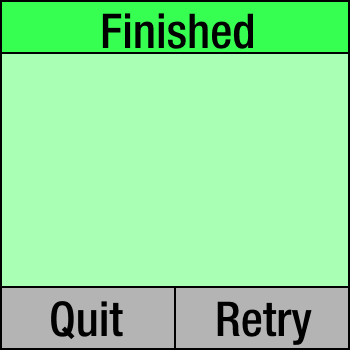
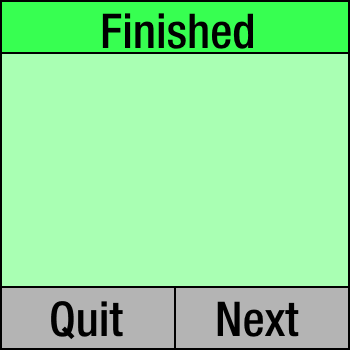
Fixed bugs in level 1 & 2

Changed region(s): [[0.6286, 0.8571, 0.8857, 1.0]]

diff --git a/core/src/com/FrobPlugins/me/Level2.java b/core/src/com/FrobPlugins/me/Level2.java
@@ -120,7 +120,7 @@ public class Level2 extends Game implements Screen{
 		died_image.addAction(Actions.sequence(Actions.alpha(0), Actions.fadeIn(1f)));
 		
 		effect = new ParticleEffect();
-		effect.load(Gdx.files.internal("effects/green.p"), Gdx.files.internal("assets/effects"));
+		effect.load(Gdx.files.internal("assets/effects/green.p"), Gdx.files.internal("assets/effects"));
 		effect.start();
 	}
 	
@@ -128,14 +128,14 @@ public class Level2 extends Game implements Screen{
 		if(Gdx.input.justTouched()){
 			if(Gdx.input.getX() > 225 && Gdx.input.getX() < 400 && Gdx.input.getY() > 300 && Gdx.input.getY() < 375){
 				died = false;
+				((Game) Gdx.app.getApplicationListener()).setScreen(new LevelScreen(main));
+			}
+			if(Gdx.input.getX() > 400 && Gdx.input.getX() < 575 && Gdx.input.getY() > 300 && Gdx.input.getY() < 375){
+				died = false;
 				CharBounds = new Rectangle(360, 160, 60, 60);
 				EvilCharBounds_1 = new Rectangle(0, 0, 80, 80);
 				EvilCharBounds_2 = new Rectangle(720, 0, 80, 80);
 				effect.reset();
-			}
-			if(Gdx.input.getX() > 400 && Gdx.input.getX() < 575 && Gdx.input.getY() > 300 && Gdx.input.getY() < 375){
-				died = false;
-				((Game) Gdx.app.getApplicationListener()).setScreen(new LevelScreen(main));
 			}
 		}
 	}

diff --git a/core/src/com/FrobPlugins/me/Level1.java b/core/src/com/FrobPlugins/me/Level1.java
@@ -344,7 +344,7 @@ public class Level1 implements Screen{
 				((Game) Gdx.app.getApplicationListener()).setScreen(new LevelScreen(main));
 			}
 			if(Gdx.input.getX() > 400 && Gdx.input.getX() < 575 && Gdx.input.getY() > 300 && Gdx.input.getY() < 375){
-				reset();
+				((Game) Gdx.app.getApplicationListener()).setScreen(new Level2(main));
 			}
 		}
 	}
